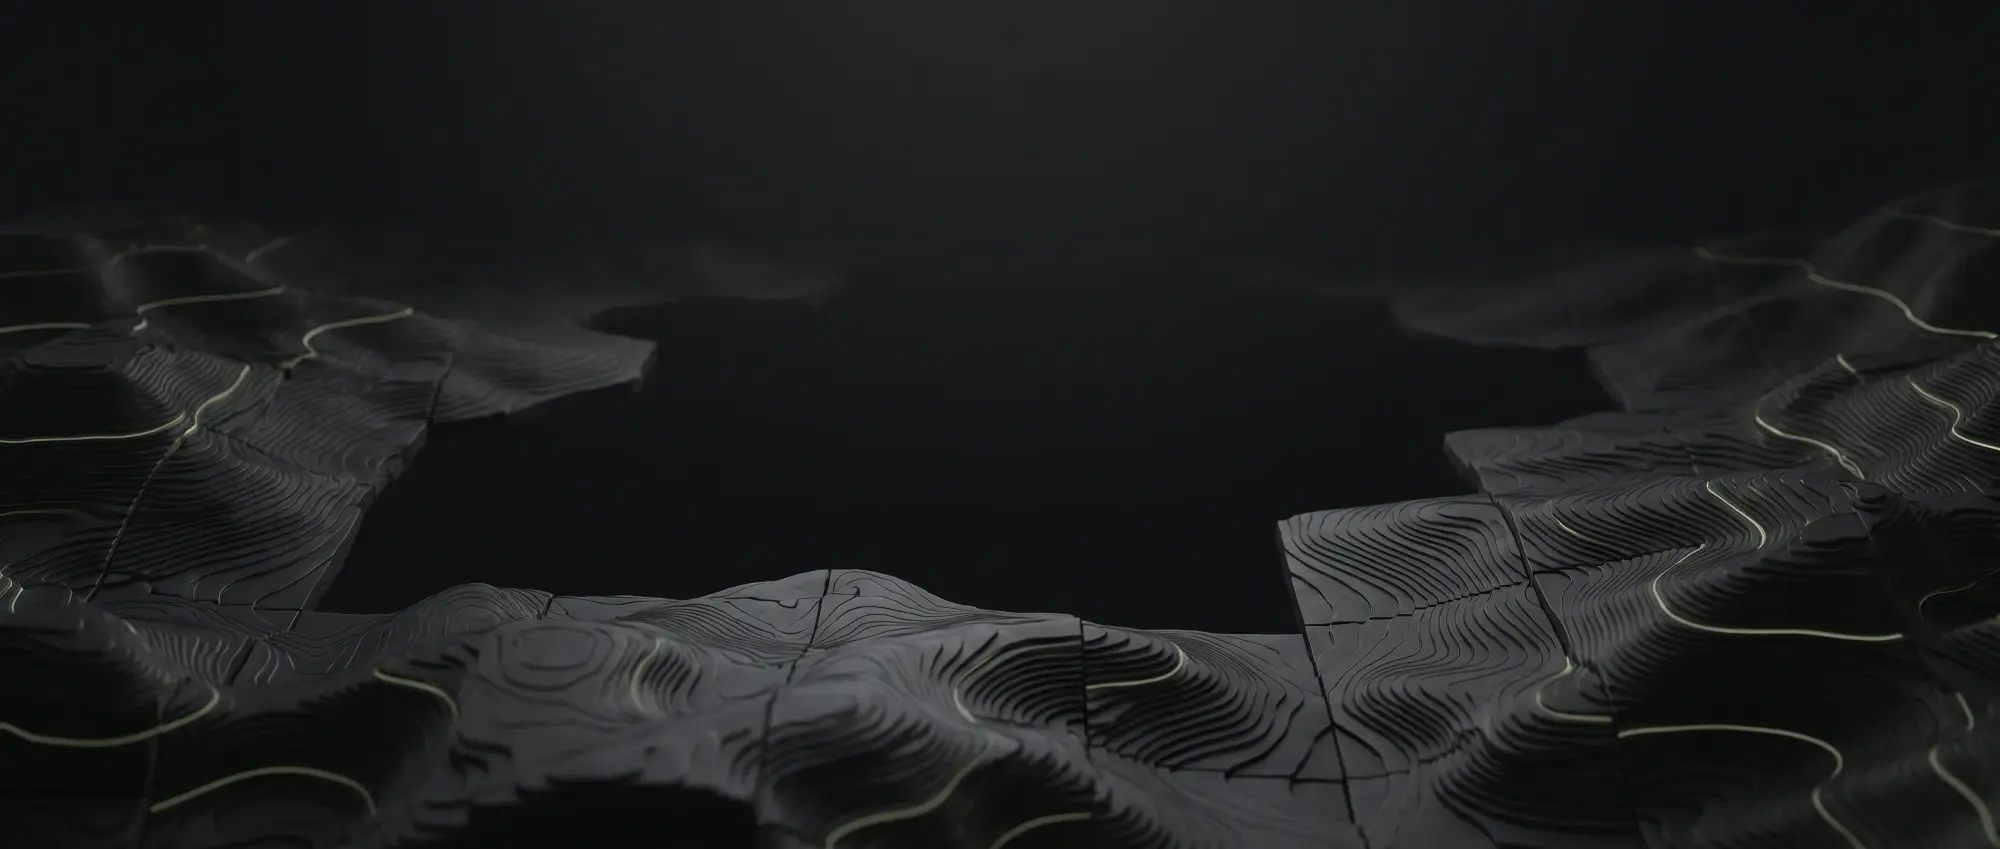
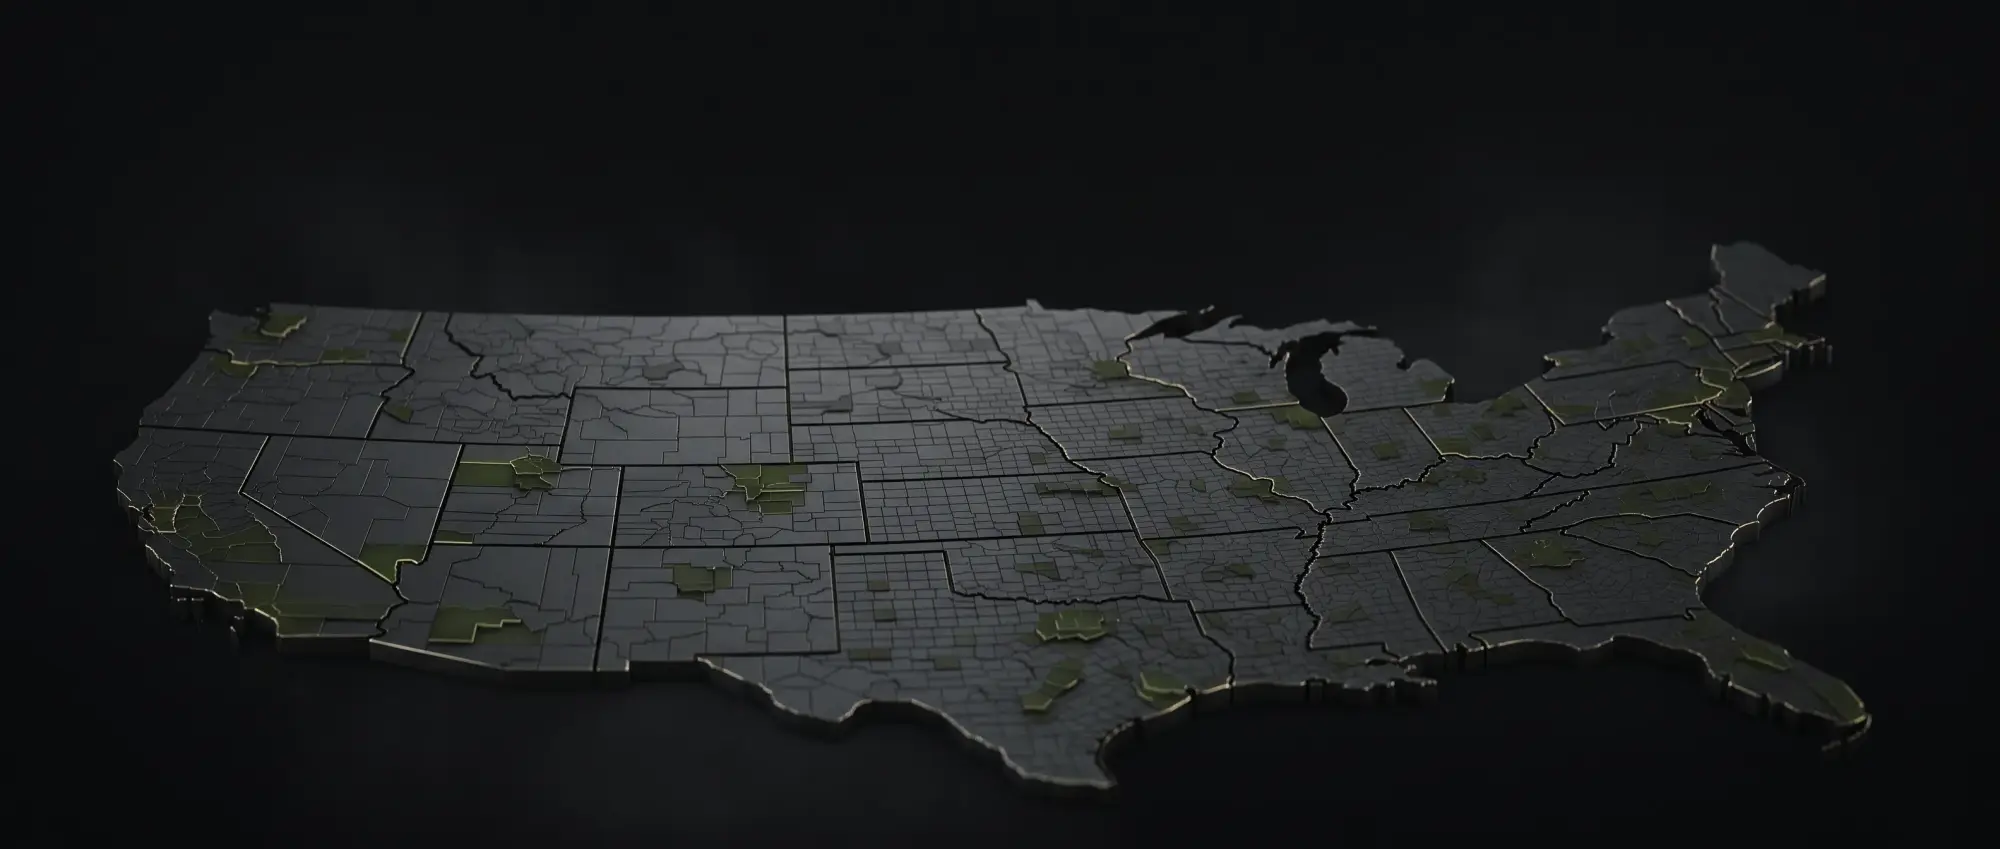
feat: use US relief map for geo header and drop title illustration cards

diff --git a/planning.html b/planning.html
@@ -50,9 +50,6 @@
         <h1 class="subhero-title" id="page-title">Plan the test before you buy the media.</h1>
         <p class="subhero-lede">How to take a media incrementality test from question to readout: the KPI, power and MDE, design, markets or audiences, timing, budget, contamination controls, launch checks, analysis plan, and how the result feeds your MMM.</p>
         <div class="meta"><span>Phases: pre-test, in-flight, post</span><span>Applies to: geo and user-level tests</span><span>Output: a pre-registered plan</span></div>
-        <div class="subhero-media">
-          <img src="assets/img/planning.webp" width="1000" height="671" alt="A floating calendar grid with a few olive-highlighted days, an S-shaped power curve ribbon behind it, and a thin timeline below.">
-        </div>
       </div>
     </section>
 

diff --git a/user-level-testing.html b/user-level-testing.html
@@ -50,9 +50,6 @@
         <h1 class="subhero-title" id="page-title">Randomize people, not places.</h1>
         <p class="subhero-lede">A user-level test randomly splits individual identities into people who can see your ads and people who cannot. This page covers the main designs, what they estimate, the data they need, why they are so noisy, and where they go wrong.</p>
         <div class="meta"><span>Unit: account, device, cookie, hashed email</span><span>Identity: required</span><span>Reads: tracked conversions</span></div>
-        <div class="subhero-media">
-          <img src="assets/img/user.webp" width="1000" height="671" alt="A population of small spheres split by a clean gap into an olive treatment group and a gray holdout group.">
-        </div>
       </div>
     </section>
 

diff --git a/other-methods.html b/other-methods.html
@@ -50,9 +50,6 @@
         <h1 class="subhero-title" id="page-title">The methods around the test.</h1>
         <p class="subhero-lede">Media mix models, attribution, quasi-experiments and response benchmarks each answer a different question. This page shows what each one can and cannot tell you, and how lift tests tie them together.</p>
         <div class="meta"><span>Bayesian MMM</span><span>Multi-touch attribution</span><span>CausalImpact &amp; synthetic control</span><span>Triangulation</span></div>
-        <div class="subhero-media">
-          <img src="assets/img/methods.webp" width="1000" height="671" alt="Layered translucent bands like a stacked area chart beneath a dark saturation curve that rises and levels off.">
-        </div>
       </div>
     </section>
 

diff --git a/geo-testing.html b/geo-testing.html
@@ -49,9 +49,6 @@
         <h1 class="subhero-title" id="page-title">Randomize regions, not people.</h1>
         <p class="subhero-lede">How geo experiments work, which design and estimator to pick, what data they need, how to check the fit, and where they quietly go wrong.</p>
         <div class="meta"><span>Unit: DMA, state, commuting zone</span><span>Identity: none</span><span>Reads: total business, offline</span></div>
-        <div class="subhero-media">
-          <img src="assets/img/geo.webp" width="1000" height="671" alt="Isometric puzzle-like map of regions, with several regions highlighted in olive as test markets and the rest in light gray as controls.">
-        </div>
       </div>
     </section>
 
